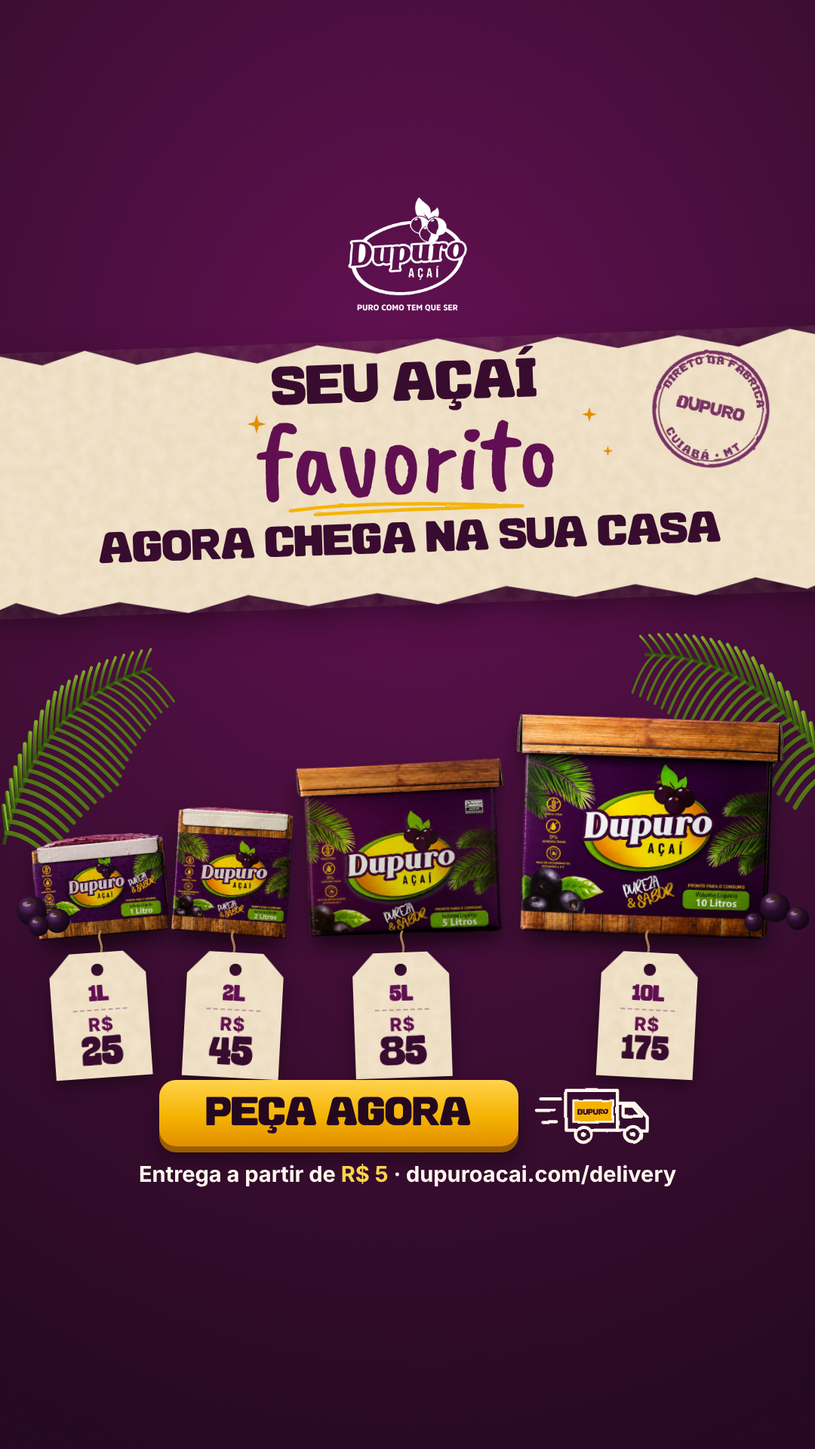
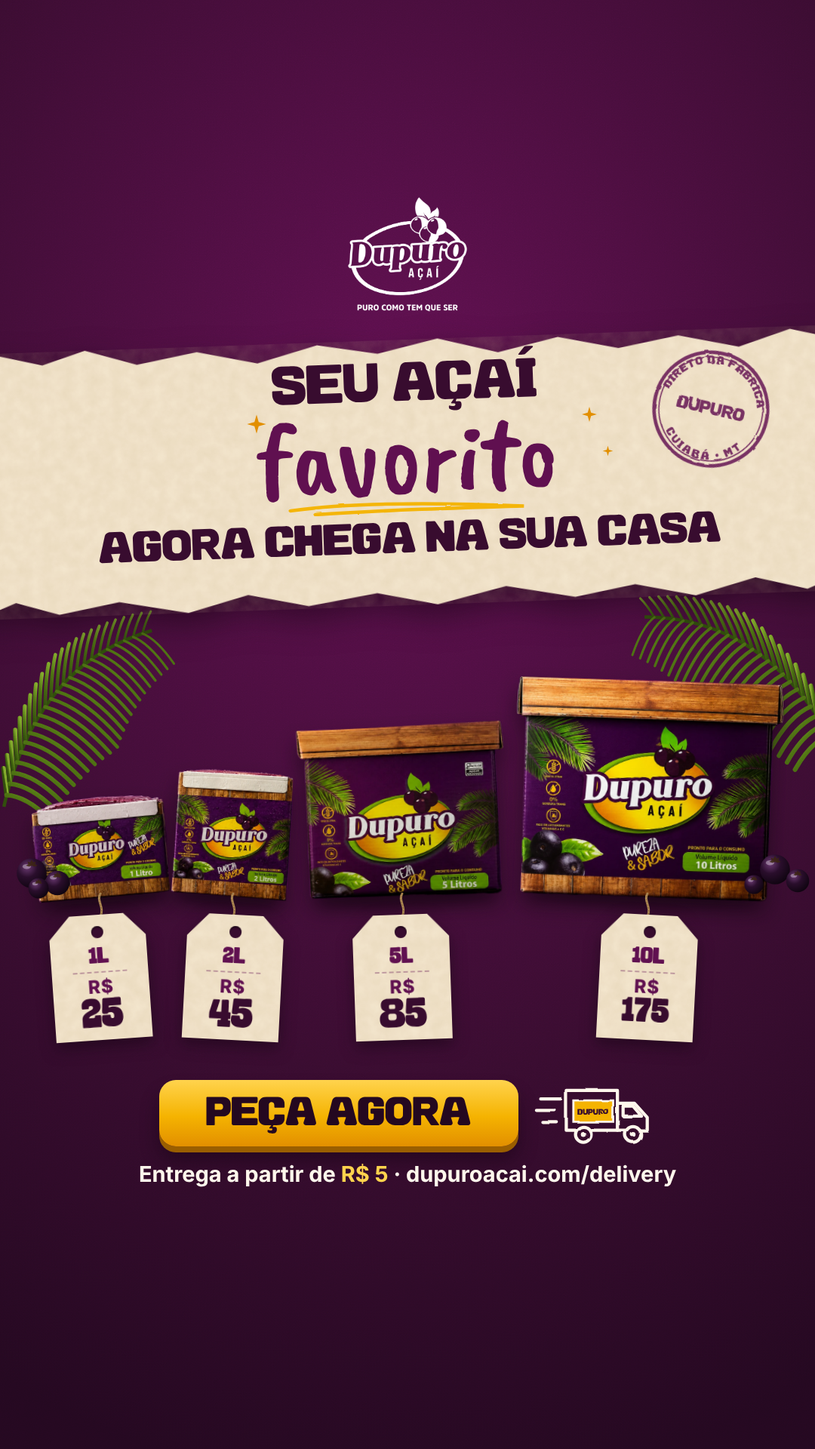
Anúncio v2 (vertical 9:16): botão separado das etiquetas, como na 4:5
Claude-Session: https://claude.ai/code/session_01FD3K2dUiQKyTzg2suxj9tU

Changed region(s): [[0.0, 0.4062, 1.0, 0.75]]

diff --git a/marketing/anuncios/delivery-v2/story.html b/marketing/anuncios/delivery-v2/story.html
@@ -18,7 +18,7 @@
   <text font-family="Klinko" font-size="17" fill="#601050" stroke="none" letter-spacing="2" text-anchor="middle" dominant-baseline="hanging"><textPath href="#baixo" startOffset="50%">CUIABÁ · MT</textPath></text>
   <text x="100" y="109" text-anchor="middle" font-family="Klinko" font-size="27" fill="#601050" stroke="none">DUPURO</text>
  </g></svg>
-<svg class="folha" style="left:-30px;top:850px;width:340px;height:340px;transform:rotate(-8deg) scaleX(1)" viewBox="-20 -20 300 300"><defs><linearGradient id="gf" x1="0" y1="1" x2="1" y2="0"><stop offset="0" stop-color="#2F4A0C"/><stop offset=".55" stop-color="#4D7012"/><stop offset="1" stop-color="#7FA82B"/></linearGradient></defs><path d="M0,200 Q60,40 200,20" stroke="#2F4A0C" stroke-width="4" fill="none"/><path d="M5.1,186.9 Q5.5,166.6 5.8,155.4" stroke="url(#gf)" stroke-width="5.4" fill="none" stroke-linecap="round"/><path d="M5.1,186.9 Q27.8,191.5 50.5,221.2" stroke="url(#gf)" stroke-width="5.4" fill="none" stroke-linecap="round"/><path d="M10.6,174.3 Q11.3,152.4 12.1,140.7" stroke="url(#gf)" stroke-width="5.2" fill="none" stroke-linecap="round"/><path d="M10.6,174.3 Q34.6,179.9 58.7,211.5" stroke="url(#gf)" stroke-width="5.2" fill="none" stroke-linecap="round"/><path d="M16.2,162.2 Q17.4,138.7 18.6,126.5" stroke="url(#gf)" stroke-width="5.1" fill="none" stroke-linecap="round"/><path d="M16.2,162.2 Q41.6,168.7 67.0,202.5" stroke="url(#gf)" stroke-width="5.1" fill="none" stroke-linecap="round"/><path d="M22.2,150.6 Q23.9,125.5 25.6,112.8" stroke="url(#gf)" stroke-width="5.0" fill="none" stroke-linecap="round"/><path d="M22.2,150.6 Q48.9,158.1 75.6,194.0" stroke="url(#gf)" stroke-width="5.0" fill="none" stroke-linecap="round"/><path d="M28.5,139.4 Q30.7,112.8 32.9,99.7" stroke="url(#gf)" stroke-width="4.9" fill="none" stroke-linecap="round"/><path d="M28.5,139.4 Q56.5,148.0 84.5,186.0" stroke="url(#gf)" stroke-width="4.9" fill="none" stroke-linecap="round"/><path d="M35.0,128.8 Q37.8,100.6 40.6,87.0" stroke="url(#gf)" stroke-width="4.8" fill="none" stroke-linecap="round"/><path d="M35.0,128.8 Q64.3,138.4 93.5,178.7" stroke="url(#gf)" stroke-width="4.8" fill="none" stroke-linecap="round"/><path d="M41.8,118.6 Q45.3,88.8 48.7,74.9" stroke="url(#gf)" stroke-width="4.6" fill="none" stroke-linecap="round"/><path d="M41.8,118.6 Q72.3,129.4 102.8,171.9" stroke="url(#gf)" stroke-width="4.6" fill="none" stroke-linecap="round"/><path d="M48.9,108.9 Q53.0,77.6 57.1,63.2" stroke="url(#gf)" stroke-width="4.5" fill="none" stroke-linecap="round"/><path d="M48.9,108.9 Q80.6,120.8 112.4,165.6" stroke="url(#gf)" stroke-width="4.5" fill="none" stroke-linecap="round"/><path d="M56.2,99.7 Q61.1,66.9 65.9,52.1" stroke="url(#gf)" stroke-width="4.4" fill="none" stroke-linecap="round"/><path d="M56.2,99.7 Q89.2,112.8 122.1,159.9" stroke="url(#gf)" stroke-width="4.4" fill="none" stroke-linecap="round"/><path d="M63.9,91.0 Q69.5,56.7 75.1,41.5" stroke="url(#gf)" stroke-width="4.2" fill="none" stroke-linecap="round"/><path d="M63.9,91.0 Q98.0,105.3 132.0,154.8" stroke="url(#gf)" stroke-width="4.2" fill="none" stroke-linecap="round"/><path d="M71.8,82.7 Q78.1,47.6 84.4,32.2" stroke="url(#gf)" stroke-width="4.1" fill="none" stroke-linecap="round"/><path d="M71.8,82.7 Q106.5,98.1 141.1,149.2" stroke="url(#gf)" stroke-width="4.1" fill="none" stroke-linecap="round"/><path d="M80.0,75.0 Q86.6,41.5 93.2,26.7" stroke="url(#gf)" stroke-width="4.0" fill="none" stroke-linecap="round"/><path d="M80.0,75.0 Q113.0,90.0 145.9,139.7" stroke="url(#gf)" stroke-width="4.0" fill="none" stroke-linecap="round"/><path d="M88.5,67.7 Q95.3,35.9 102.2,21.6" stroke="url(#gf)" stroke-width="3.9" fill="none" stroke-linecap="round"/><path d="M88.5,67.7 Q119.8,82.4 151.1,130.7" stroke="url(#gf)" stroke-width="3.9" fill="none" stroke-linecap="round"/><path d="M97.2,61.0 Q104.3,30.8 111.3,17.1" stroke="url(#gf)" stroke-width="3.8" fill="none" stroke-linecap="round"/><path d="M97.2,61.0 Q126.9,75.3 156.6,122.0" stroke="url(#gf)" stroke-width="3.8" fill="none" stroke-linecap="round"/><path d="M106.2,54.7 Q113.4,26.2 120.6,13.0" stroke="url(#gf)" stroke-width="3.6" fill="none" stroke-linecap="round"/><path d="M106.2,54.7 Q134.3,68.6 162.4,113.7" stroke="url(#gf)" stroke-width="3.6" fill="none" stroke-linecap="round"/><path d="M115.6,48.9 Q122.9,22.1 130.2,9.4" stroke="url(#gf)" stroke-width="3.5" fill="none" stroke-linecap="round"/><path d="M115.6,48.9 Q142.0,62.3 168.5,105.8" stroke="url(#gf)" stroke-width="3.5" fill="none" stroke-linecap="round"/><path d="M125.1,43.6 Q132.5,18.4 139.9,6.3" stroke="url(#gf)" stroke-width="3.4" fill="none" stroke-linecap="round"/><path d="M125.1,43.6 Q150.0,56.5 174.9,98.4" stroke="url(#gf)" stroke-width="3.4" fill="none" stroke-linecap="round"/><path d="M135.0,38.8 Q142.4,15.3 149.7,3.7" stroke="url(#gf)" stroke-width="3.2" fill="none" stroke-linecap="round"/><path d="M135.0,38.8 Q158.3,51.1 181.6,91.3" stroke="url(#gf)" stroke-width="3.2" fill="none" stroke-linecap="round"/><path d="M145.1,34.4 Q152.5,12.6 159.8,1.5" stroke="url(#gf)" stroke-width="3.1" fill="none" stroke-linecap="round"/><path d="M145.1,34.4 Q166.9,46.1 188.7,84.6" stroke="url(#gf)" stroke-width="3.1" fill="none" stroke-linecap="round"/><path d="M155.6,30.6 Q162.8,10.4 170.0,-0.1" stroke="url(#gf)" stroke-width="3.0" fill="none" stroke-linecap="round"/><path d="M155.6,30.6 Q175.8,41.6 196.0,78.4" stroke="url(#gf)" stroke-width="3.0" fill="none" stroke-linecap="round"/><path d="M166.2,27.2 Q173.4,8.6 180.5,-1.4" stroke="url(#gf)" stroke-width="2.9" fill="none" stroke-linecap="round"/><path d="M166.2,27.2 Q185.0,37.6 203.8,72.5" stroke="url(#gf)" stroke-width="2.9" fill="none" stroke-linecap="round"/><path d="M177.2,24.3 Q184.2,7.4 191.1,-2.1" stroke="url(#gf)" stroke-width="2.8" fill="none" stroke-linecap="round"/><path d="M177.2,24.3 Q194.5,34.0 211.8,67.1" stroke="url(#gf)" stroke-width="2.8" fill="none" stroke-linecap="round"/><path d="M188.5,21.9 Q195.2,6.6 201.9,-2.4" stroke="url(#gf)" stroke-width="2.6" fill="none" stroke-linecap="round"/><path d="M188.5,21.9 Q204.3,30.8 220.2,62.0" stroke="url(#gf)" stroke-width="2.6" fill="none" stroke-linecap="round"/></svg><svg class="folha" style="left:780px;top:810px;width:340px;height:340px;transform:rotate(-8deg) scaleX(-1)" viewBox="-20 -20 300 300"><defs><linearGradient id="gf" x1="0" y1="1" x2="1" y2="0"><stop offset="0" stop-color="#2F4A0C"/><stop offset=".55" stop-color="#4D7012"/><stop offset="1" stop-color="#7FA82B"/></linearGradient></defs><path d="M0,200 Q60,40 200,20" stroke="#2F4A0C" stroke-width="4" fill="none"/><path d="M5.1,186.9 Q5.5,166.6 5.8,155.4" stroke="url(#gf)" stroke-width="5.4" fill="none" stroke-linecap="round"/><path d="M5.1,186.9 Q27.8,191.5 50.5,221.2" stroke="url(#gf)" stroke-width="5.4" fill="none" stroke-linecap="round"/><path d="M10.6,174.3 Q11.3,152.4 12.1,140.7" stroke="url(#gf)" stroke-width="5.2" fill="none" stroke-linecap="round"/><path d="M10.6,174.3 Q34.6,179.9 58.7,211.5" stroke="url(#gf)" stroke-width="5.2" fill="none" stroke-linecap="round"/><path d="M16.2,162.2 Q17.4,138.7 18.6,126.5" stroke="url(#gf)" stroke-width="5.1" fill="none" stroke-linecap="round"/><path d="M16.2,162.2 Q41.6,168.7 67.0,202.5" stroke="url(#gf)" stroke-width="5.1" fill="none" stroke-linecap="round"/><path d="M22.2,150.6 Q23.9,125.5 25.6,112.8" stroke="url(#gf)" stroke-width="5.0" fill="none" stroke-linecap="round"/><path d="M22.2,150.6 Q48.9,158.1 75.6,194.0" stroke="url(#gf)" stroke-width="5.0" fill="none" stroke-linecap="round"/><path d="M28.5,139.4 Q30.7,112.8 32.9,99.7" stroke="url(#gf)" stroke-width="4.9" fill="none" stroke-linecap="round"/><path d="M28.5,139.4 Q56.5,148.0 84.5,186.0" stroke="url(#gf)" stroke-width="4.9" fill="none" stroke-linecap="round"/><path d="M35.0,128.8 Q37.8,100.6 40.6,87.0" stroke="url(#gf)" stroke-width="4.8" fill="none" stroke-linecap="round"/><path d="M35.0,128.8 Q64.3,138.4 93.5,178.7" stroke="url(#gf)" stroke-width="4.8" fill="none" stroke-linecap="round"/><path d="M41.8,118.6 Q45.3,88.8 48.7,74.9" stroke="url(#gf)" stroke-width="4.6" fill="none" stroke-linecap="round"/><path d="M41.8,118.6 Q72.3,129.4 102.8,171.9" stroke="url(#gf)" stroke-width="4.6" fill="none" stroke-linecap="round"/><path d="M48.9,108.9 Q53.0,77.6 57.1,63.2" stroke="url(#gf)" stroke-width="4.5" fill="none" stroke-linecap="round"/><path d="M48.9,108.9 Q80.6,120.8 112.4,165.6" stroke="url(#gf)" stroke-width="4.5" fill="none" stroke-linecap="round"/><path d="M56.2,99.7 Q61.1,66.9 65.9,52.1" stroke="url(#gf)" stroke-width="4.4" fill="none" stroke-linecap="round"/><path d="M56.2,99.7 Q89.2,112.8 122.1,159.9" stroke="url(#gf)" stroke-width="4.4" fill="none" stroke-linecap="round"/><path d="M63.9,91.0 Q69.5,56.7 75.1,41.5" stroke="url(#gf)" stroke-width="4.2" fill="none" stroke-linecap="round"/><path d="M63.9,91.0 Q98.0,105.3 132.0,154.8" stroke="url(#gf)" stroke-width="4.2" fill="none" stroke-linecap="round"/><path d="M71.8,82.7 Q78.1,47.6 84.4,32.2" stroke="url(#gf)" stroke-width="4.1" fill="none" stroke-linecap="round"/><path d="M71.8,82.7 Q106.5,98.1 141.1,149.2" stroke="url(#gf)" stroke-width="4.1" fill="none" stroke-linecap="round"/><path d="M80.0,75.0 Q86.6,41.5 93.2,26.7" stroke="url(#gf)" stroke-width="4.0" fill="none" stroke-linecap="round"/><path d="M80.0,75.0 Q113.0,90.0 145.9,139.7" stroke="url(#gf)" stroke-width="4.0" fill="none" stroke-linecap="round"/><path d="M88.5,67.7 Q95.3,35.9 102.2,21.6" stroke="url(#gf)" stroke-width="3.9" fill="none" stroke-linecap="round"/><path d="M88.5,67.7 Q119.8,82.4 151.1,130.7" stroke="url(#gf)" stroke-width="3.9" fill="none" stroke-linecap="round"/><path d="M97.2,61.0 Q104.3,30.8 111.3,17.1" stroke="url(#gf)" stroke-width="3.8" fill="none" stroke-linecap="round"/><path d="M97.2,61.0 Q126.9,75.3 156.6,122.0" stroke="url(#gf)" stroke-width="3.8" fill="none" stroke-linecap="round"/><path d="M106.2,54.7 Q113.4,26.2 120.6,13.0" stroke="url(#gf)" stroke-width="3.6" fill="none" stroke-linecap="round"/><path d="M106.2,54.7 Q134.3,68.6 162.4,113.7" stroke="url(#gf)" stroke-width="3.6" fill="none" stroke-linecap="round"/><path d="M115.6,48.9 Q122.9,22.1 130.2,9.4" stroke="url(#gf)" stroke-width="3.5" fill="none" stroke-linecap="round"/><path d="M115.6,48.9 Q142.0,62.3 168.5,105.8" stroke="url(#gf)" stroke-width="3.5" fill="none" stroke-linecap="round"/><path d="M125.1,43.6 Q132.5,18.4 139.9,6.3" stroke="url(#gf)" stroke-width="3.4" fill="none" stroke-linecap="round"/><path d="M125.1,43.6 Q150.0,56.5 174.9,98.4" stroke="url(#gf)" stroke-width="3.4" fill="none" stroke-linecap="round"/><path d="M135.0,38.8 Q142.4,15.3 149.7,3.7" stroke="url(#gf)" stroke-width="3.2" fill="none" stroke-linecap="round"/><path d="M135.0,38.8 Q158.3,51.1 181.6,91.3" stroke="url(#gf)" stroke-width="3.2" fill="none" stroke-linecap="round"/><path d="M145.1,34.4 Q152.5,12.6 159.8,1.5" stroke="url(#gf)" stroke-width="3.1" fill="none" stroke-linecap="round"/><path d="M145.1,34.4 Q166.9,46.1 188.7,84.6" stroke="url(#gf)" stroke-width="3.1" fill="none" stroke-linecap="round"/><path d="M155.6,30.6 Q162.8,10.4 170.0,-0.1" stroke="url(#gf)" stroke-width="3.0" fill="none" stroke-linecap="round"/><path d="M155.6,30.6 Q175.8,41.6 196.0,78.4" stroke="url(#gf)" stroke-width="3.0" fill="none" stroke-linecap="round"/><path d="M166.2,27.2 Q173.4,8.6 180.5,-1.4" stroke="url(#gf)" stroke-width="2.9" fill="none" stroke-linecap="round"/><path d="M166.2,27.2 Q185.0,37.6 203.8,72.5" stroke="url(#gf)" stroke-width="2.9" fill="none" stroke-linecap="round"/><path d="M177.2,24.3 Q184.2,7.4 191.1,-2.1" stroke="url(#gf)" stroke-width="2.8" fill="none" stroke-linecap="round"/><path d="M177.2,24.3 Q194.5,34.0 211.8,67.1" stroke="url(#gf)" stroke-width="2.8" fill="none" stroke-linecap="round"/><path d="M188.5,21.9 Q195.2,6.6 201.9,-2.4" stroke="url(#gf)" stroke-width="2.6" fill="none" stroke-linecap="round"/><path d="M188.5,21.9 Q204.3,30.8 220.2,62.0" stroke="url(#gf)" stroke-width="2.6" fill="none" stroke-linecap="round"/></svg><svg class="fruto" style="left:20px;top:1185px;width:44px;height:44px" viewBox="0 0 40 40"><defs><radialGradient id="gb" cx=".35" cy=".3" r=".75"><stop offset="0" stop-color="#6B3A72"/><stop offset=".45" stop-color="#2A0E2C"/><stop offset="1" stop-color="#0E040F"/></radialGradient></defs><circle cx="20" cy="20" r="18" fill="url(#gb)"/><ellipse cx="14" cy="12" rx="5" ry="3" fill="#fff" opacity=".35"/><path d="M20,4 l2,3 l3,-1 l-1,3 l3,2 l-4,1 l-3,-1 l-3,1 l-4,-1 l3,-2 l-1,-3 l3,1 z" fill="#3B2410" opacity=".85"/></svg><svg class="fruto" style="left:58px;top:1202px;width:36px;height:36px" viewBox="0 0 40 40"><defs><radialGradient id="gb" cx=".35" cy=".3" r=".75"><stop offset="0" stop-color="#6B3A72"/><stop offset=".45" stop-color="#2A0E2C"/><stop offset="1" stop-color="#0E040F"/></radialGradient></defs><circle cx="20" cy="20" r="18" fill="url(#gb)"/><ellipse cx="14" cy="12" rx="5" ry="3" fill="#fff" opacity=".35"/><path d="M20,4 l2,3 l3,-1 l-1,3 l3,2 l-4,1 l-3,-1 l-3,1 l-4,-1 l3,-2 l-1,-3 l3,1 z" fill="#3B2410" opacity=".85"/></svg><svg class="fruto" style="left:36px;top:1212px;width:30px;height:30px" viewBox="0 0 40 40"><defs><radialGradient id="gb" cx=".35" cy=".3" r=".75"><stop offset="0" stop-color="#6B3A72"/><stop offset=".45" stop-color="#2A0E2C"/><stop offset="1" stop-color="#0E040F"/></radialGradient></defs><circle cx="20" cy="20" r="18" fill="url(#gb)"/><ellipse cx="14" cy="12" rx="5" ry="3" fill="#fff" opacity=".35"/><path d="M20,4 l2,3 l3,-1 l-1,3 l3,2 l-4,1 l-3,-1 l-3,1 l-4,-1 l3,-2 l-1,-3 l3,1 z" fill="#3B2410" opacity=".85"/></svg><svg class="fruto" style="left:1005px;top:1180px;width:44px;height:44px" viewBox="0 0 40 40"><defs><radialGradient id="gb" cx=".35" cy=".3" r=".75"><stop offset="0" stop-color="#6B3A72"/><stop offset=".45" stop-color="#2A0E2C"/><stop offset="1" stop-color="#0E040F"/></radialGradient></defs><circle cx="20" cy="20" r="18" fill="url(#gb)"/><ellipse cx="14" cy="12" rx="5" ry="3" fill="#fff" opacity=".35"/><path d="M20,4 l2,3 l3,-1 l-1,3 l3,2 l-4,1 l-3,-1 l-3,1 l-4,-1 l3,-2 l-1,-3 l3,1 z" fill="#3B2410" opacity=".85"/></svg><svg class="fruto" style="left:1040px;top:1200px;width:34px;height:34px" viewBox="0 0 40 40"><defs><radialGradient id="gb" cx=".35" cy=".3" r=".75"><stop offset="0" stop-color="#6B3A72"/><stop offset=".45" stop-color="#2A0E2C"/><stop offset="1" stop-color="#0E040F"/></radialGradient></defs><circle cx="20" cy="20" r="18" fill="url(#gb)"/><ellipse cx="14" cy="12" rx="5" ry="3" fill="#fff" opacity=".35"/><path d="M20,4 l2,3 l3,-1 l-1,3 l3,2 l-4,1 l-3,-1 l-3,1 l-4,-1 l3,-2 l-1,-3 l3,1 z" fill="#3B2410" opacity=".85"/></svg><svg class="fruto" style="left:985px;top:1208px;width:28px;height:28px" viewBox="0 0 40 40"><defs><radialGradient id="gb" cx=".35" cy=".3" r=".75"><stop offset="0" stop-color="#6B3A72"/><stop offset=".45" stop-color="#2A0E2C"/><stop offset="1" stop-color="#0E040F"/></radialGradient></defs><circle cx="20" cy="20" r="18" fill="url(#gb)"/><ellipse cx="14" cy="12" rx="5" ry="3" fill="#fff" opacity=".35"/><path d="M20,4 l2,3 l3,-1 l-1,3 l3,2 l-4,1 l-3,-1 l-3,1 l-4,-1 l3,-2 l-1,-3 l3,1 z" fill="#3B2410" opacity=".85"/></svg>
+<svg class="folha" style="left:-30px;top:800px;width:340px;height:340px;transform:rotate(-8deg) scaleX(1)" viewBox="-20 -20 300 300"><defs><linearGradient id="gf" x1="0" y1="1" x2="1" y2="0"><stop offset="0" stop-color="#2F4A0C"/><stop offset=".55" stop-color="#4D7012"/><stop offset="1" stop-color="#7FA82B"/></linearGradient></defs><path d="M0,200 Q60,40 200,20" stroke="#2F4A0C" stroke-width="4" fill="none"/><path d="M5.1,186.9 Q5.5,166.6 5.8,155.4" stroke="url(#gf)" stroke-width="5.4" fill="none" stroke-linecap="round"/><path d="M5.1,186.9 Q27.8,191.5 50.5,221.2" stroke="url(#gf)" stroke-width="5.4" fill="none" stroke-linecap="round"/><path d="M10.6,174.3 Q11.3,152.4 12.1,140.7" stroke="url(#gf)" stroke-width="5.2" fill="none" stroke-linecap="round"/><path d="M10.6,174.3 Q34.6,179.9 58.7,211.5" stroke="url(#gf)" stroke-width="5.2" fill="none" stroke-linecap="round"/><path d="M16.2,162.2 Q17.4,138.7 18.6,126.5" stroke="url(#gf)" stroke-width="5.1" fill="none" stroke-linecap="round"/><path d="M16.2,162.2 Q41.6,168.7 67.0,202.5" stroke="url(#gf)" stroke-width="5.1" fill="none" stroke-linecap="round"/><path d="M22.2,150.6 Q23.9,125.5 25.6,112.8" stroke="url(#gf)" stroke-width="5.0" fill="none" stroke-linecap="round"/><path d="M22.2,150.6 Q48.9,158.1 75.6,194.0" stroke="url(#gf)" stroke-width="5.0" fill="none" stroke-linecap="round"/><path d="M28.5,139.4 Q30.7,112.8 32.9,99.7" stroke="url(#gf)" stroke-width="4.9" fill="none" stroke-linecap="round"/><path d="M28.5,139.4 Q56.5,148.0 84.5,186.0" stroke="url(#gf)" stroke-width="4.9" fill="none" stroke-linecap="round"/><path d="M35.0,128.8 Q37.8,100.6 40.6,87.0" stroke="url(#gf)" stroke-width="4.8" fill="none" stroke-linecap="round"/><path d="M35.0,128.8 Q64.3,138.4 93.5,178.7" stroke="url(#gf)" stroke-width="4.8" fill="none" stroke-linecap="round"/><path d="M41.8,118.6 Q45.3,88.8 48.7,74.9" stroke="url(#gf)" stroke-width="4.6" fill="none" stroke-linecap="round"/><path d="M41.8,118.6 Q72.3,129.4 102.8,171.9" stroke="url(#gf)" stroke-width="4.6" fill="none" stroke-linecap="round"/><path d="M48.9,108.9 Q53.0,77.6 57.1,63.2" stroke="url(#gf)" stroke-width="4.5" fill="none" stroke-linecap="round"/><path d="M48.9,108.9 Q80.6,120.8 112.4,165.6" stroke="url(#gf)" stroke-width="4.5" fill="none" stroke-linecap="round"/><path d="M56.2,99.7 Q61.1,66.9 65.9,52.1" stroke="url(#gf)" stroke-width="4.4" fill="none" stroke-linecap="round"/><path d="M56.2,99.7 Q89.2,112.8 122.1,159.9" stroke="url(#gf)" stroke-width="4.4" fill="none" stroke-linecap="round"/><path d="M63.9,91.0 Q69.5,56.7 75.1,41.5" stroke="url(#gf)" stroke-width="4.2" fill="none" stroke-linecap="round"/><path d="M63.9,91.0 Q98.0,105.3 132.0,154.8" stroke="url(#gf)" stroke-width="4.2" fill="none" stroke-linecap="round"/><path d="M71.8,82.7 Q78.1,47.6 84.4,32.2" stroke="url(#gf)" stroke-width="4.1" fill="none" stroke-linecap="round"/><path d="M71.8,82.7 Q106.5,98.1 141.1,149.2" stroke="url(#gf)" stroke-width="4.1" fill="none" stroke-linecap="round"/><path d="M80.0,75.0 Q86.6,41.5 93.2,26.7" stroke="url(#gf)" stroke-width="4.0" fill="none" stroke-linecap="round"/><path d="M80.0,75.0 Q113.0,90.0 145.9,139.7" stroke="url(#gf)" stroke-width="4.0" fill="none" stroke-linecap="round"/><path d="M88.5,67.7 Q95.3,35.9 102.2,21.6" stroke="url(#gf)" stroke-width="3.9" fill="none" stroke-linecap="round"/><path d="M88.5,67.7 Q119.8,82.4 151.1,130.7" stroke="url(#gf)" stroke-width="3.9" fill="none" stroke-linecap="round"/><path d="M97.2,61.0 Q104.3,30.8 111.3,17.1" stroke="url(#gf)" stroke-width="3.8" fill="none" stroke-linecap="round"/><path d="M97.2,61.0 Q126.9,75.3 156.6,122.0" stroke="url(#gf)" stroke-width="3.8" fill="none" stroke-linecap="round"/><path d="M106.2,54.7 Q113.4,26.2 120.6,13.0" stroke="url(#gf)" stroke-width="3.6" fill="none" stroke-linecap="round"/><path d="M106.2,54.7 Q134.3,68.6 162.4,113.7" stroke="url(#gf)" stroke-width="3.6" fill="none" stroke-linecap="round"/><path d="M115.6,48.9 Q122.9,22.1 130.2,9.4" stroke="url(#gf)" stroke-width="3.5" fill="none" stroke-linecap="round"/><path d="M115.6,48.9 Q142.0,62.3 168.5,105.8" stroke="url(#gf)" stroke-width="3.5" fill="none" stroke-linecap="round"/><path d="M125.1,43.6 Q132.5,18.4 139.9,6.3" stroke="url(#gf)" stroke-width="3.4" fill="none" stroke-linecap="round"/><path d="M125.1,43.6 Q150.0,56.5 174.9,98.4" stroke="url(#gf)" stroke-width="3.4" fill="none" stroke-linecap="round"/><path d="M135.0,38.8 Q142.4,15.3 149.7,3.7" stroke="url(#gf)" stroke-width="3.2" fill="none" stroke-linecap="round"/><path d="M135.0,38.8 Q158.3,51.1 181.6,91.3" stroke="url(#gf)" stroke-width="3.2" fill="none" stroke-linecap="round"/><path d="M145.1,34.4 Q152.5,12.6 159.8,1.5" stroke="url(#gf)" stroke-width="3.1" fill="none" stroke-linecap="round"/><path d="M145.1,34.4 Q166.9,46.1 188.7,84.6" stroke="url(#gf)" stroke-width="3.1" fill="none" stroke-linecap="round"/><path d="M155.6,30.6 Q162.8,10.4 170.0,-0.1" stroke="url(#gf)" stroke-width="3.0" fill="none" stroke-linecap="round"/><path d="M155.6,30.6 Q175.8,41.6 196.0,78.4" stroke="url(#gf)" stroke-width="3.0" fill="none" stroke-linecap="round"/><path d="M166.2,27.2 Q173.4,8.6 180.5,-1.4" stroke="url(#gf)" stroke-width="2.9" fill="none" stroke-linecap="round"/><path d="M166.2,27.2 Q185.0,37.6 203.8,72.5" stroke="url(#gf)" stroke-width="2.9" fill="none" stroke-linecap="round"/><path d="M177.2,24.3 Q184.2,7.4 191.1,-2.1" stroke="url(#gf)" stroke-width="2.8" fill="none" stroke-linecap="round"/><path d="M177.2,24.3 Q194.5,34.0 211.8,67.1" stroke="url(#gf)" stroke-width="2.8" fill="none" stroke-linecap="round"/><path d="M188.5,21.9 Q195.2,6.6 201.9,-2.4" stroke="url(#gf)" stroke-width="2.6" fill="none" stroke-linecap="round"/><path d="M188.5,21.9 Q204.3,30.8 220.2,62.0" stroke="url(#gf)" stroke-width="2.6" fill="none" stroke-linecap="round"/></svg><svg class="folha" style="left:780px;top:760px;width:340px;height:340px;transform:rotate(-8deg) scaleX(-1)" viewBox="-20 -20 300 300"><defs><linearGradient id="gf" x1="0" y1="1" x2="1" y2="0"><stop offset="0" stop-color="#2F4A0C"/><stop offset=".55" stop-color="#4D7012"/><stop offset="1" stop-color="#7FA82B"/></linearGradient></defs><path d="M0,200 Q60,40 200,20" stroke="#2F4A0C" stroke-width="4" fill="none"/><path d="M5.1,186.9 Q5.5,166.6 5.8,155.4" stroke="url(#gf)" stroke-width="5.4" fill="none" stroke-linecap="round"/><path d="M5.1,186.9 Q27.8,191.5 50.5,221.2" stroke="url(#gf)" stroke-width="5.4" fill="none" stroke-linecap="round"/><path d="M10.6,174.3 Q11.3,152.4 12.1,140.7" stroke="url(#gf)" stroke-width="5.2" fill="none" stroke-linecap="round"/><path d="M10.6,174.3 Q34.6,179.9 58.7,211.5" stroke="url(#gf)" stroke-width="5.2" fill="none" stroke-linecap="round"/><path d="M16.2,162.2 Q17.4,138.7 18.6,126.5" stroke="url(#gf)" stroke-width="5.1" fill="none" stroke-linecap="round"/><path d="M16.2,162.2 Q41.6,168.7 67.0,202.5" stroke="url(#gf)" stroke-width="5.1" fill="none" stroke-linecap="round"/><path d="M22.2,150.6 Q23.9,125.5 25.6,112.8" stroke="url(#gf)" stroke-width="5.0" fill="none" stroke-linecap="round"/><path d="M22.2,150.6 Q48.9,158.1 75.6,194.0" stroke="url(#gf)" stroke-width="5.0" fill="none" stroke-linecap="round"/><path d="M28.5,139.4 Q30.7,112.8 32.9,99.7" stroke="url(#gf)" stroke-width="4.9" fill="none" stroke-linecap="round"/><path d="M28.5,139.4 Q56.5,148.0 84.5,186.0" stroke="url(#gf)" stroke-width="4.9" fill="none" stroke-linecap="round"/><path d="M35.0,128.8 Q37.8,100.6 40.6,87.0" stroke="url(#gf)" stroke-width="4.8" fill="none" stroke-linecap="round"/><path d="M35.0,128.8 Q64.3,138.4 93.5,178.7" stroke="url(#gf)" stroke-width="4.8" fill="none" stroke-linecap="round"/><path d="M41.8,118.6 Q45.3,88.8 48.7,74.9" stroke="url(#gf)" stroke-width="4.6" fill="none" stroke-linecap="round"/><path d="M41.8,118.6 Q72.3,129.4 102.8,171.9" stroke="url(#gf)" stroke-width="4.6" fill="none" stroke-linecap="round"/><path d="M48.9,108.9 Q53.0,77.6 57.1,63.2" stroke="url(#gf)" stroke-width="4.5" fill="none" stroke-linecap="round"/><path d="M48.9,108.9 Q80.6,120.8 112.4,165.6" stroke="url(#gf)" stroke-width="4.5" fill="none" stroke-linecap="round"/><path d="M56.2,99.7 Q61.1,66.9 65.9,52.1" stroke="url(#gf)" stroke-width="4.4" fill="none" stroke-linecap="round"/><path d="M56.2,99.7 Q89.2,112.8 122.1,159.9" stroke="url(#gf)" stroke-width="4.4" fill="none" stroke-linecap="round"/><path d="M63.9,91.0 Q69.5,56.7 75.1,41.5" stroke="url(#gf)" stroke-width="4.2" fill="none" stroke-linecap="round"/><path d="M63.9,91.0 Q98.0,105.3 132.0,154.8" stroke="url(#gf)" stroke-width="4.2" fill="none" stroke-linecap="round"/><path d="M71.8,82.7 Q78.1,47.6 84.4,32.2" stroke="url(#gf)" stroke-width="4.1" fill="none" stroke-linecap="round"/><path d="M71.8,82.7 Q106.5,98.1 141.1,149.2" stroke="url(#gf)" stroke-width="4.1" fill="none" stroke-linecap="round"/><path d="M80.0,75.0 Q86.6,41.5 93.2,26.7" stroke="url(#gf)" stroke-width="4.0" fill="none" stroke-linecap="round"/><path d="M80.0,75.0 Q113.0,90.0 145.9,139.7" stroke="url(#gf)" stroke-width="4.0" fill="none" stroke-linecap="round"/><path d="M88.5,67.7 Q95.3,35.9 102.2,21.6" stroke="url(#gf)" stroke-width="3.9" fill="none" stroke-linecap="round"/><path d="M88.5,67.7 Q119.8,82.4 151.1,130.7" stroke="url(#gf)" stroke-width="3.9" fill="none" stroke-linecap="round"/><path d="M97.2,61.0 Q104.3,30.8 111.3,17.1" stroke="url(#gf)" stroke-width="3.8" fill="none" stroke-linecap="round"/><path d="M97.2,61.0 Q126.9,75.3 156.6,122.0" stroke="url(#gf)" stroke-width="3.8" fill="none" stroke-linecap="round"/><path d="M106.2,54.7 Q113.4,26.2 120.6,13.0" stroke="url(#gf)" stroke-width="3.6" fill="none" stroke-linecap="round"/><path d="M106.2,54.7 Q134.3,68.6 162.4,113.7" stroke="url(#gf)" stroke-width="3.6" fill="none" stroke-linecap="round"/><path d="M115.6,48.9 Q122.9,22.1 130.2,9.4" stroke="url(#gf)" stroke-width="3.5" fill="none" stroke-linecap="round"/><path d="M115.6,48.9 Q142.0,62.3 168.5,105.8" stroke="url(#gf)" stroke-width="3.5" fill="none" stroke-linecap="round"/><path d="M125.1,43.6 Q132.5,18.4 139.9,6.3" stroke="url(#gf)" stroke-width="3.4" fill="none" stroke-linecap="round"/><path d="M125.1,43.6 Q150.0,56.5 174.9,98.4" stroke="url(#gf)" stroke-width="3.4" fill="none" stroke-linecap="round"/><path d="M135.0,38.8 Q142.4,15.3 149.7,3.7" stroke="url(#gf)" stroke-width="3.2" fill="none" stroke-linecap="round"/><path d="M135.0,38.8 Q158.3,51.1 181.6,91.3" stroke="url(#gf)" stroke-width="3.2" fill="none" stroke-linecap="round"/><path d="M145.1,34.4 Q152.5,12.6 159.8,1.5" stroke="url(#gf)" stroke-width="3.1" fill="none" stroke-linecap="round"/><path d="M145.1,34.4 Q166.9,46.1 188.7,84.6" stroke="url(#gf)" stroke-width="3.1" fill="none" stroke-linecap="round"/><path d="M155.6,30.6 Q162.8,10.4 170.0,-0.1" stroke="url(#gf)" stroke-width="3.0" fill="none" stroke-linecap="round"/><path d="M155.6,30.6 Q175.8,41.6 196.0,78.4" stroke="url(#gf)" stroke-width="3.0" fill="none" stroke-linecap="round"/><path d="M166.2,27.2 Q173.4,8.6 180.5,-1.4" stroke="url(#gf)" stroke-width="2.9" fill="none" stroke-linecap="round"/><path d="M166.2,27.2 Q185.0,37.6 203.8,72.5" stroke="url(#gf)" stroke-width="2.9" fill="none" stroke-linecap="round"/><path d="M177.2,24.3 Q184.2,7.4 191.1,-2.1" stroke="url(#gf)" stroke-width="2.8" fill="none" stroke-linecap="round"/><path d="M177.2,24.3 Q194.5,34.0 211.8,67.1" stroke="url(#gf)" stroke-width="2.8" fill="none" stroke-linecap="round"/><path d="M188.5,21.9 Q195.2,6.6 201.9,-2.4" stroke="url(#gf)" stroke-width="2.6" fill="none" stroke-linecap="round"/><path d="M188.5,21.9 Q204.3,30.8 220.2,62.0" stroke="url(#gf)" stroke-width="2.6" fill="none" stroke-linecap="round"/></svg><svg class="fruto" style="left:20px;top:1135px;width:44px;height:44px" viewBox="0 0 40 40"><defs><radialGradient id="gb" cx=".35" cy=".3" r=".75"><stop offset="0" stop-color="#6B3A72"/><stop offset=".45" stop-color="#2A0E2C"/><stop offset="1" stop-color="#0E040F"/></radialGradient></defs><circle cx="20" cy="20" r="18" fill="url(#gb)"/><ellipse cx="14" cy="12" rx="5" ry="3" fill="#fff" opacity=".35"/><path d="M20,4 l2,3 l3,-1 l-1,3 l3,2 l-4,1 l-3,-1 l-3,1 l-4,-1 l3,-2 l-1,-3 l3,1 z" fill="#3B2410" opacity=".85"/></svg><svg class="fruto" style="left:58px;top:1152px;width:36px;height:36px" viewBox="0 0 40 40"><defs><radialGradient id="gb" cx=".35" cy=".3" r=".75"><stop offset="0" stop-color="#6B3A72"/><stop offset=".45" stop-color="#2A0E2C"/><stop offset="1" stop-color="#0E040F"/></radialGradient></defs><circle cx="20" cy="20" r="18" fill="url(#gb)"/><ellipse cx="14" cy="12" rx="5" ry="3" fill="#fff" opacity=".35"/><path d="M20,4 l2,3 l3,-1 l-1,3 l3,2 l-4,1 l-3,-1 l-3,1 l-4,-1 l3,-2 l-1,-3 l3,1 z" fill="#3B2410" opacity=".85"/></svg><svg class="fruto" style="left:36px;top:1162px;width:30px;height:30px" viewBox="0 0 40 40"><defs><radialGradient id="gb" cx=".35" cy=".3" r=".75"><stop offset="0" stop-color="#6B3A72"/><stop offset=".45" stop-color="#2A0E2C"/><stop offset="1" stop-color="#0E040F"/></radialGradient></defs><circle cx="20" cy="20" r="18" fill="url(#gb)"/><ellipse cx="14" cy="12" rx="5" ry="3" fill="#fff" opacity=".35"/><path d="M20,4 l2,3 l3,-1 l-1,3 l3,2 l-4,1 l-3,-1 l-3,1 l-4,-1 l3,-2 l-1,-3 l3,1 z" fill="#3B2410" opacity=".85"/></svg><svg class="fruto" style="left:1005px;top:1130px;width:44px;height:44px" viewBox="0 0 40 40"><defs><radialGradient id="gb" cx=".35" cy=".3" r=".75"><stop offset="0" stop-color="#6B3A72"/><stop offset=".45" stop-color="#2A0E2C"/><stop offset="1" stop-color="#0E040F"/></radialGradient></defs><circle cx="20" cy="20" r="18" fill="url(#gb)"/><ellipse cx="14" cy="12" rx="5" ry="3" fill="#fff" opacity=".35"/><path d="M20,4 l2,3 l3,-1 l-1,3 l3,2 l-4,1 l-3,-1 l-3,1 l-4,-1 l3,-2 l-1,-3 l3,1 z" fill="#3B2410" opacity=".85"/></svg><svg class="fruto" style="left:1040px;top:1150px;width:34px;height:34px" viewBox="0 0 40 40"><defs><radialGradient id="gb" cx=".35" cy=".3" r=".75"><stop offset="0" stop-color="#6B3A72"/><stop offset=".45" stop-color="#2A0E2C"/><stop offset="1" stop-color="#0E040F"/></radialGradient></defs><circle cx="20" cy="20" r="18" fill="url(#gb)"/><ellipse cx="14" cy="12" rx="5" ry="3" fill="#fff" opacity=".35"/><path d="M20,4 l2,3 l3,-1 l-1,3 l3,2 l-4,1 l-3,-1 l-3,1 l-4,-1 l3,-2 l-1,-3 l3,1 z" fill="#3B2410" opacity=".85"/></svg><svg class="fruto" style="left:985px;top:1158px;width:28px;height:28px" viewBox="0 0 40 40"><defs><radialGradient id="gb" cx=".35" cy=".3" r=".75"><stop offset="0" stop-color="#6B3A72"/><stop offset=".45" stop-color="#2A0E2C"/><stop offset="1" stop-color="#0E040F"/></radialGradient></defs><circle cx="20" cy="20" r="18" fill="url(#gb)"/><ellipse cx="14" cy="12" rx="5" ry="3" fill="#fff" opacity=".35"/><path d="M20,4 l2,3 l3,-1 l-1,3 l3,2 l-4,1 l-3,-1 l-3,1 l-4,-1 l3,-2 l-1,-3 l3,1 z" fill="#3B2410" opacity=".85"/></svg>
 <div class="fila"><div class="item i1"><div class="caixa"><img src="../briefing-delivery/material/caixa-1l-estudio-recorte.webp" alt="Caixa 1 litro"><div class="sombra"></div></div><svg class="barbante" viewBox="0 0 30 40" preserveAspectRatio="none"><path d="M15,0 C 9,12 21,24 15,40" stroke="#B08A55" stroke-width="3" fill="none" stroke-linecap="round"/><path d="M15,0 C 9,12 21,24 15,40" stroke="#7A5A30" stroke-width="1" stroke-dasharray="2 3" fill="none"/></svg><div class="etiqueta"><div class="corpo"></div><svg class="fibra2" xmlns="http://www.w3.org/2000/svg" preserveAspectRatio="none"><filter id="f1"><feTurbulence type="fractalNoise" baseFrequency="0.06" numOctaves="4" seed="5"/><feColorMatrix values="0 0 0 0 0.55  0 0 0 0 0.42  0 0 0 0 0.25  0 0 0 0.55 0"/></filter><rect width="100%" height="100%" filter="url(#f1)"/></svg><div class="furo"></div><div class="preco"><span class="lit">1L</span><span class="rs">R$</span><span class="num">25</span></div></div></div><div class="item i2"><div class="caixa"><img src="../briefing-delivery/material/caixa-2l-estudio-recorte.webp" alt="Caixa 2 litros"><div class="sombra"></div></div><svg class="barbante" viewBox="0 0 30 40" preserveAspectRatio="none"><path d="M15,0 C 9,12 21,24 15,40" stroke="#B08A55" stroke-width="3" fill="none" stroke-linecap="round"/><path d="M15,0 C 9,12 21,24 15,40" stroke="#7A5A30" stroke-width="1" stroke-dasharray="2 3" fill="none"/></svg><div class="etiqueta"><div class="corpo"></div><svg class="fibra2" xmlns="http://www.w3.org/2000/svg" preserveAspectRatio="none"><filter id="f2"><feTurbulence type="fractalNoise" baseFrequency="0.06" numOctaves="4" seed="6"/><feColorMatrix values="0 0 0 0 0.55  0 0 0 0 0.42  0 0 0 0 0.25  0 0 0 0.55 0"/></filter><rect width="100%" height="100%" filter="url(#f2)"/></svg><div class="furo"></div><div class="preco"><span class="lit">2L</span><span class="rs">R$</span><span class="num">45</span></div></div></div><div class="item i5"><div class="caixa"><img src="../briefing-delivery/material/caixa-5l-estudio-recorte.webp" alt="Caixa 5 litros"><div class="sombra"></div></div><svg class="barbante" viewBox="0 0 30 40" preserveAspectRatio="none"><path d="M15,0 C 9,12 21,24 15,40" stroke="#B08A55" stroke-width="3" fill="none" stroke-linecap="round"/><path d="M15,0 C 9,12 21,24 15,40" stroke="#7A5A30" stroke-width="1" stroke-dasharray="2 3" fill="none"/></svg><div class="etiqueta"><div class="corpo"></div><svg class="fibra2" xmlns="http://www.w3.org/2000/svg" preserveAspectRatio="none"><filter id="f5"><feTurbulence type="fractalNoise" baseFrequency="0.06" numOctaves="4" seed="9"/><feColorMatrix values="0 0 0 0 0.55  0 0 0 0 0.42  0 0 0 0 0.25  0 0 0 0.55 0"/></filter><rect width="100%" height="100%" filter="url(#f5)"/></svg><div class="furo"></div><div class="preco"><span class="lit">5L</span><span class="rs">R$</span><span class="num">85</span></div></div></div><div class="item i10"><div class="caixa"><img src="../briefing-delivery/material/caixa-10l-estudio-recorte.webp" alt="Caixa 10 litros"><div class="sombra"></div></div><svg class="barbante" viewBox="0 0 30 40" preserveAspectRatio="none"><path d="M15,0 C 9,12 21,24 15,40" stroke="#B08A55" stroke-width="3" fill="none" stroke-linecap="round"/><path d="M15,0 C 9,12 21,24 15,40" stroke="#7A5A30" stroke-width="1" stroke-dasharray="2 3" fill="none"/></svg><div class="etiqueta"><div class="corpo"></div><svg class="fibra2" xmlns="http://www.w3.org/2000/svg" preserveAspectRatio="none"><filter id="f10"><feTurbulence type="fractalNoise" baseFrequency="0.06" numOctaves="4" seed="14"/><feColorMatrix values="0 0 0 0 0.55  0 0 0 0 0.42  0 0 0 0 0.25  0 0 0 0.55 0"/></filter><rect width="100%" height="100%" filter="url(#f10)"/></svg><div class="furo"></div><div class="preco"><span class="lit">10L</span><span class="rs">R$</span><span class="num tres">175</span></div></div></div></div>
 <div class="rodape"><div class="linha-cta"><span class="cta">Peça agora</span><svg class="caminhao" viewBox="0 0 170 100" xmlns="http://www.w3.org/2000/svg"><defs><filter id="mao2"><feTurbulence type="fractalNoise" baseFrequency="0.035" numOctaves="2" seed="5" result="d"/><feDisplacementMap in="SourceGraphic" in2="d" scale="3.5"/></filter></defs>
  <g filter="url(#mao2)" fill="none" stroke="#FFF7EC" stroke-width="4.5" stroke-linecap="round" stroke-linejoin="round">

diff --git a/marketing/anuncios/delivery-v2/peca.css b/marketing/anuncios/delivery-v2/peca.css
@@ -45,7 +45,7 @@ body { font-family:'Inter',sans-serif; color:var(--cream); position:relative;
   --fila-y:585px; --fila-h:370px; --escala:135px; --ad:124px; --rodape-y:1170px; --cta:46px; --info:28px; }
 .story { --w:1080px; --h:1920px; --logo-y:250px; --logo-w:180px; --faixa-y:450px; --faixa-h:352px; --titulo-y:478px;
   --t-a:68px; --t-mao:140px; --t-b:54px; --carimbo:160px; --carimbo-x:58px; --carimbo-y:462px;
-  --fila-y:850px; --fila-h:390px; --escala:135px; --ad:128px; --rodape-y:1428px; --cta:50px; --info:29px; }
+  --fila-y:800px; --fila-h:390px; --escala:135px; --ad:128px; --rodape-y:1428px; --cta:50px; --info:29px; }
 
 /* ---- ajustes 2026-10-26: etiquetas de papel amarradas, folhas, frutos, rabiscos, caminhãozinho ---- */
 .barbante { position:absolute; top:calc(100% - 6px); left:50%; width:30px; margin-left:-15px; height:var(--fio); overflow:visible; }

diff --git a/marketing/anuncios/delivery-v2/gerar.py b/marketing/anuncios/delivery-v2/gerar.py
@@ -73,7 +73,7 @@ def pagina(fmt):
     if fmt=='feed':
         decor=folha(-30,585,320,-8)+folha(800,545,320,-8,True)+''.join(fruto(x,y,r) for x,y,r in [(20,920,22),(58,937,18),(36,947,15),(1005,915,22),(1040,935,17),(985,943,14)])
     else:
-        decor=folha(-30,850,340,-8)+folha(780,810,340,-8,True)+''.join(fruto(x,y,r) for x,y,r in [(20,1185,22),(58,1202,18),(36,1212,15),(1005,1180,22),(1040,1200,17),(985,1208,14)])
+        decor=folha(-30,800,340,-8)+folha(780,760,340,-8,True)+''.join(fruto(x,y,r) for x,y,r in [(20,1135,22),(58,1152,18),(36,1162,15),(1005,1130,22),(1040,1150,17),(985,1158,14)])
     return f'''<!doctype html><html lang="pt-BR"><head><meta charset="utf-8"><meta name="robots" content="noindex">
 <link href="https://fonts.googleapis.com/css2?family=Inter:wght@600;700;800&family=Caveat+Brush&display=swap" rel="stylesheet">
 <link rel="stylesheet" href="peca.css"><title>Dupuro Delivery v2 — {fmt}</title></head>
